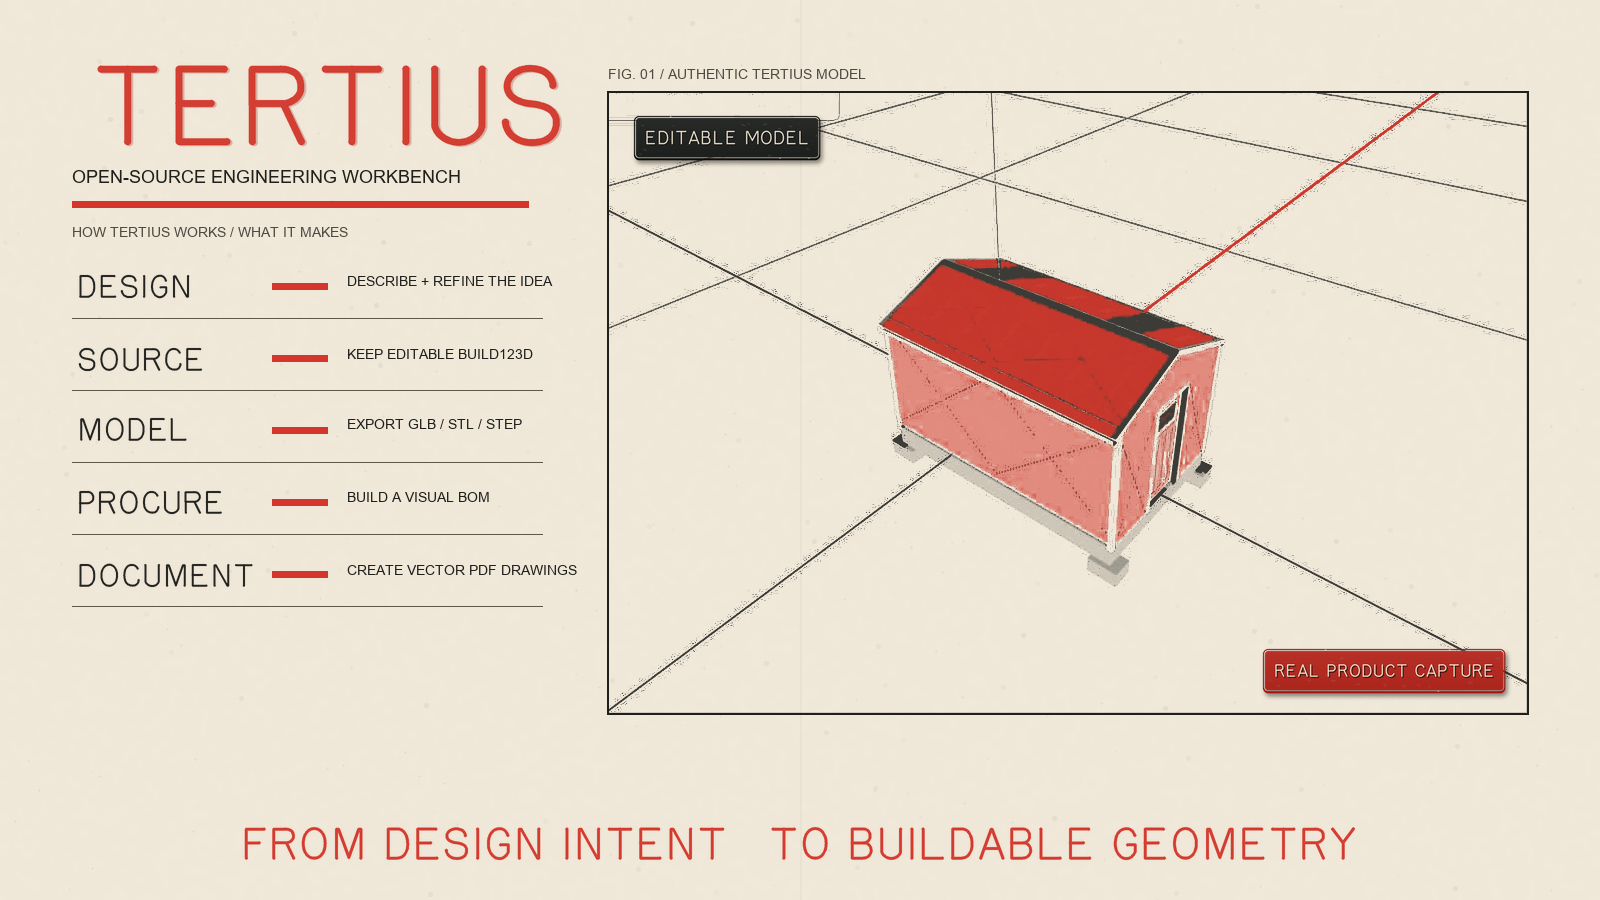
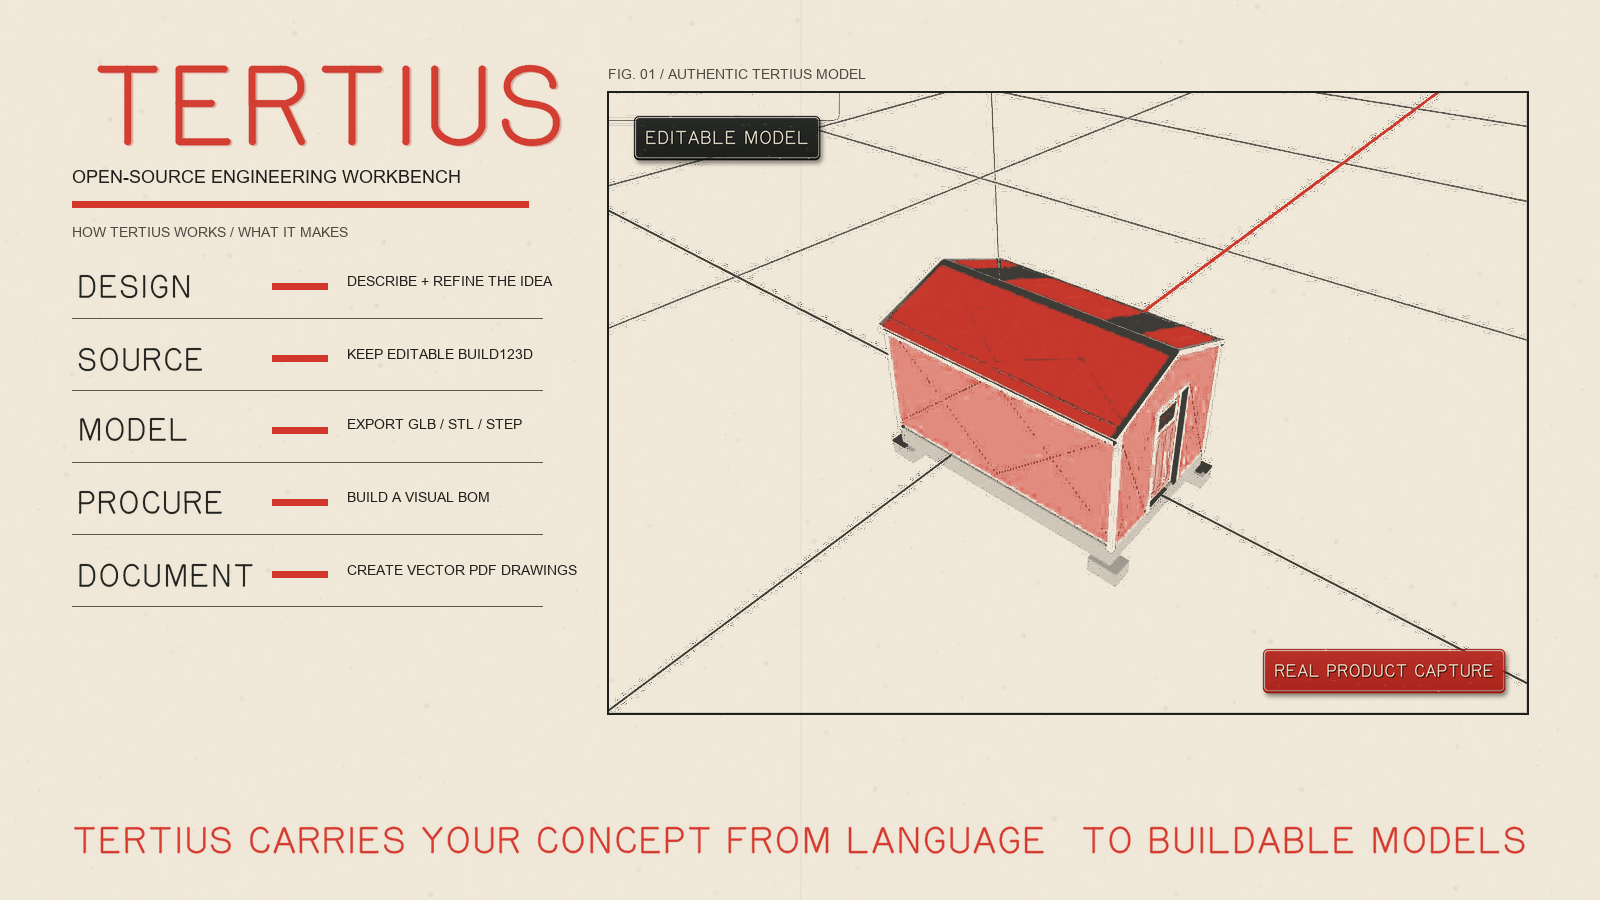
Set the hero sell line in dactylic hexameter

Changed region(s): [[0.0625, 0.9022, 0.9375, 0.9644], [0.875, 0.7156, 0.9375, 0.7467], [0.4688, 0.1244, 0.5, 0.1556]]

diff --git a/assets/readme/compose-hero.py b/assets/readme/compose-hero.py
@@ -415,14 +415,14 @@ def compose(source: Path, destination: Path, brand_font: Path | None) -> None:
     if brand_font and brand_font.exists():
         footer_from = gorton_wordmark(
             brand_font,
-            "FROM DESIGN INTENT",
+            "TERTIUS CARRIES YOUR CONCEPT FROM LANGUAGE",
             28,
             3,
             signal_red,
         )
         footer_to = gorton_wordmark(
             brand_font,
-            "TO BUILDABLE GEOMETRY",
+            "TO BUILDABLE MODELS",
             28,
             3,
             signal_red,
@@ -435,12 +435,31 @@ def compose(source: Path, destination: Path, brand_font: Path | None) -> None:
             footer_to = footer_to.crop(footer_to_box)
         phrase_gap = 42
         footer_width = footer_from.width + phrase_gap + footer_to.width
+        max_footer_width = width - margin * 2
+        if footer_width > max_footer_width:
+            scale_ratio = max_footer_width / footer_width
+            footer_from = footer_from.resize(
+                (
+                    max(1, int(footer_from.width * scale_ratio)),
+                    max(1, int(footer_from.height * scale_ratio)),
+                ),
+                Image.Resampling.LANCZOS,
+            )
+            footer_to = footer_to.resize(
+                (
+                    max(1, int(footer_to.width * scale_ratio)),
+                    max(1, int(footer_to.height * scale_ratio)),
+                ),
+                Image.Resampling.LANCZOS,
+            )
+            phrase_gap = max(24, int(phrase_gap * scale_ratio))
+            footer_width = footer_from.width + phrase_gap + footer_to.width
         footer_x = (width - footer_width) // 2
         footer_y = height - 76
         image.alpha_composite(footer_from, (footer_x, footer_y))
         image.alpha_composite(footer_to, (footer_x + footer_from.width + phrase_gap, footer_y))
     else:
-        footer_text = "FROM DESIGN INTENT   TO BUILDABLE GEOMETRY"
+        footer_text = "TERTIUS CARRIES YOUR CONCEPT FROM LANGUAGE   TO BUILDABLE MODELS"
         footer_box = draw.textbbox((0, 0), footer_text, font=sans)
         draw.text(
             ((width - (footer_box[2] - footer_box[0])) // 2, height - 74),
